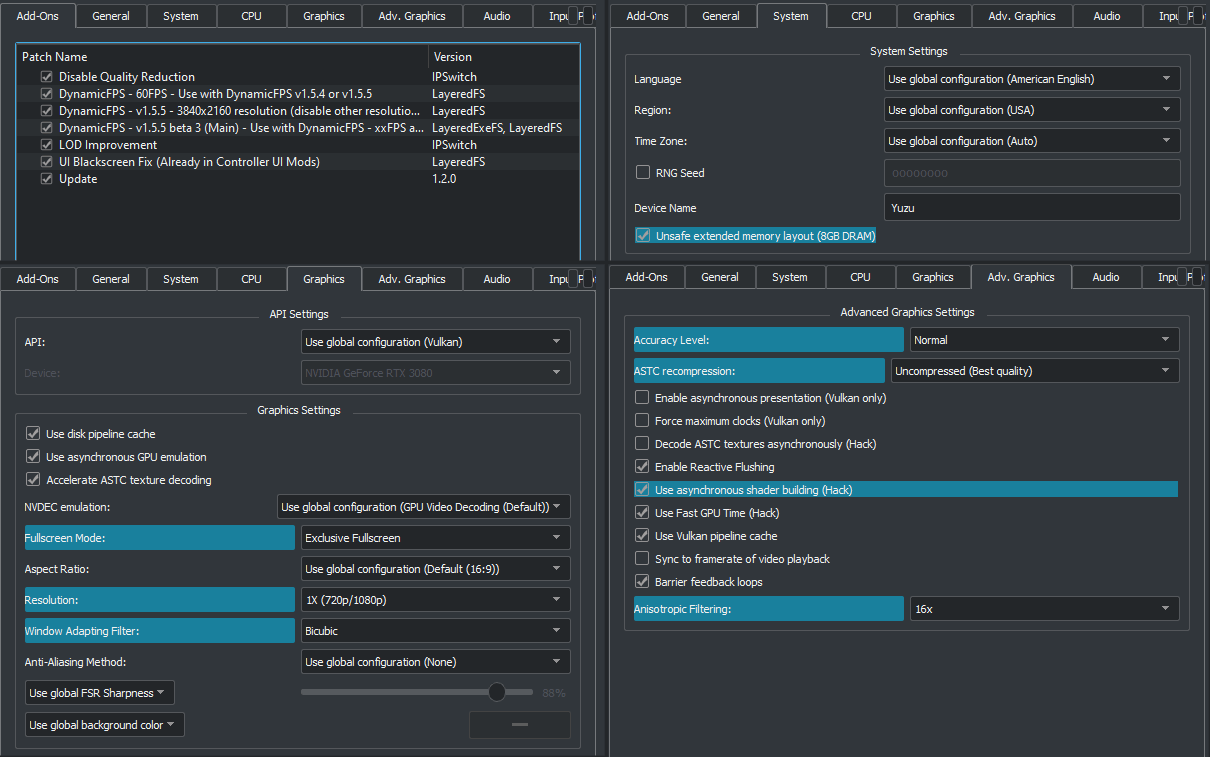
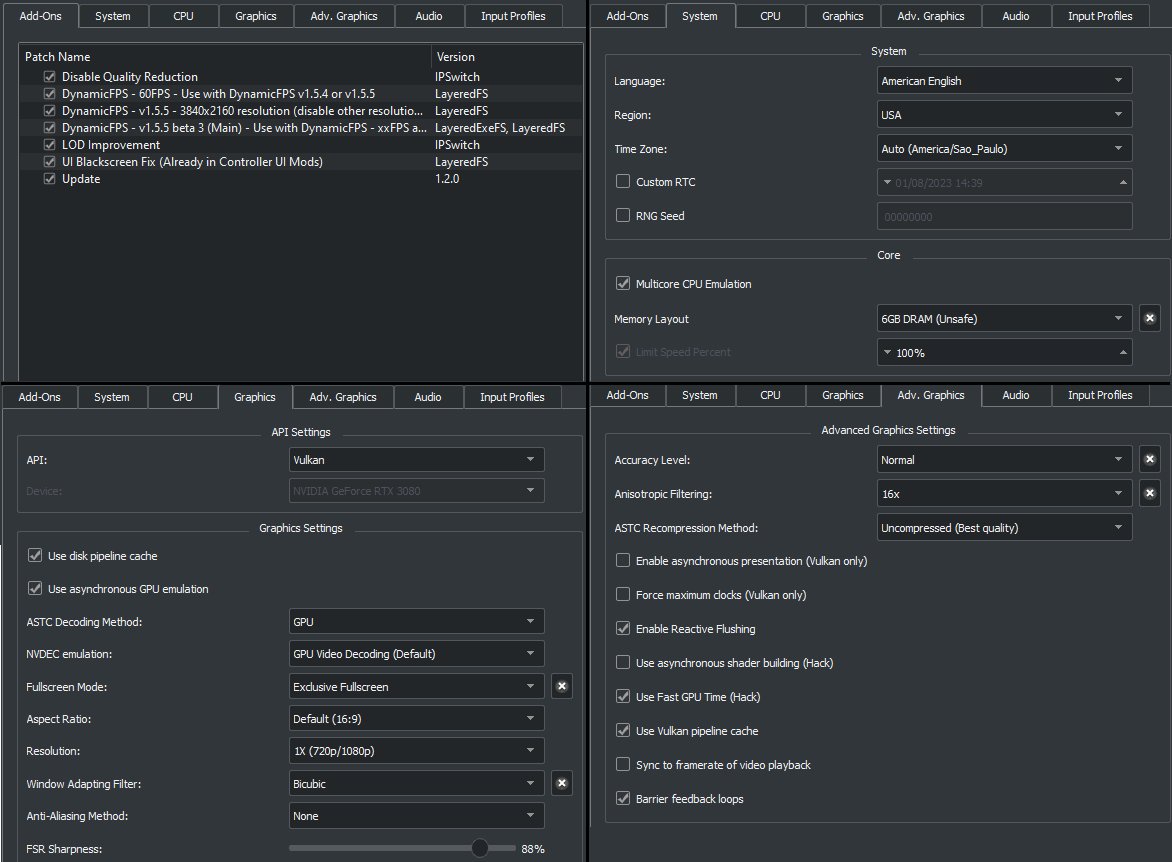
Update Recommended Settings

Changed region(s): [[0.0, 0.0, 1.0, 1.0], [0.9829, 0.9419, 1.0, 0.9723]]

diff --git a/SETUP.md b/SETUP.md
@@ -20,8 +20,8 @@
 
 ## Recommended Yuzu System setting:
 **Right Click on the game name -> Properties -> System:**
-  - Unsafe extended memory layout (8GB DRAM): On
-    </br>If you have less than 16GB RAM, turn off and use the mod "Shadows 1024x". More about in [Detailed Setup](#detailed-setup-1)
+  - Memory layout: 6GB DRAM (Unsafe)
+    </br>If you have less than 16GB RAM, use "4GB DRAM (Default)" and use the mod "Shadows 1024x". More about in [Detailed Setup](#detailed-setup-1)
 
 ## Recommended Yuzu Graphics:
 **Emulation -> Configure -> Graphics**
@@ -33,7 +33,7 @@ Everything else at [the default](#resetting-yuzu-settings-1).
   - API: Vulkan
   - Use Disk Pipeline Cache: On
   - Use asynchronous GPU emulation: On
-  - Accelerate ASTC Texture Decoding: On
+  - ASTC Decoding Method: GPU
   - NVDEC emulation: GPU Video Decoding
   - Fullscreen Mode: Exclusive Fullscreen
   - Aspect Ratio: Default (16:9)
@@ -45,20 +45,19 @@ Everything else at [the default](#resetting-yuzu-settings-1).
 ## Recommended Yuzu Advanced Graphics:
 **Right Click on the game name -> Properties -> ADV. Graphics:**
   - Accuracy Level: Normal
+  - Anisotropic Filtering: 16x
   - ASTC recompression depends on your GPU vRAM:
     - BC1 for 2GB,
     - BC3 for 4-6GB,
     - Uncompressed for more.
   - Enable asynchronous presentation (Vulkan only): Off
   - Force maximum clocks (Vulkan only): Off
-  - Decode ASTC textures asynchronously (Hack): Off
   - Enable Reactive Flushing: On
   - Use asynchronous shader building (Hack): Off
   - Use Fast GPU Time (Hack): On
   - Use Vulkan Pipeline Cache: On
   - Sync to framerate of video playback: Off
   - Barrier feedback loops: On
-  - Anisotropic Filtering: 16x
 
 After setup your configurations should look like this example for a High-End PC. Your settings may vary, read above:
 
